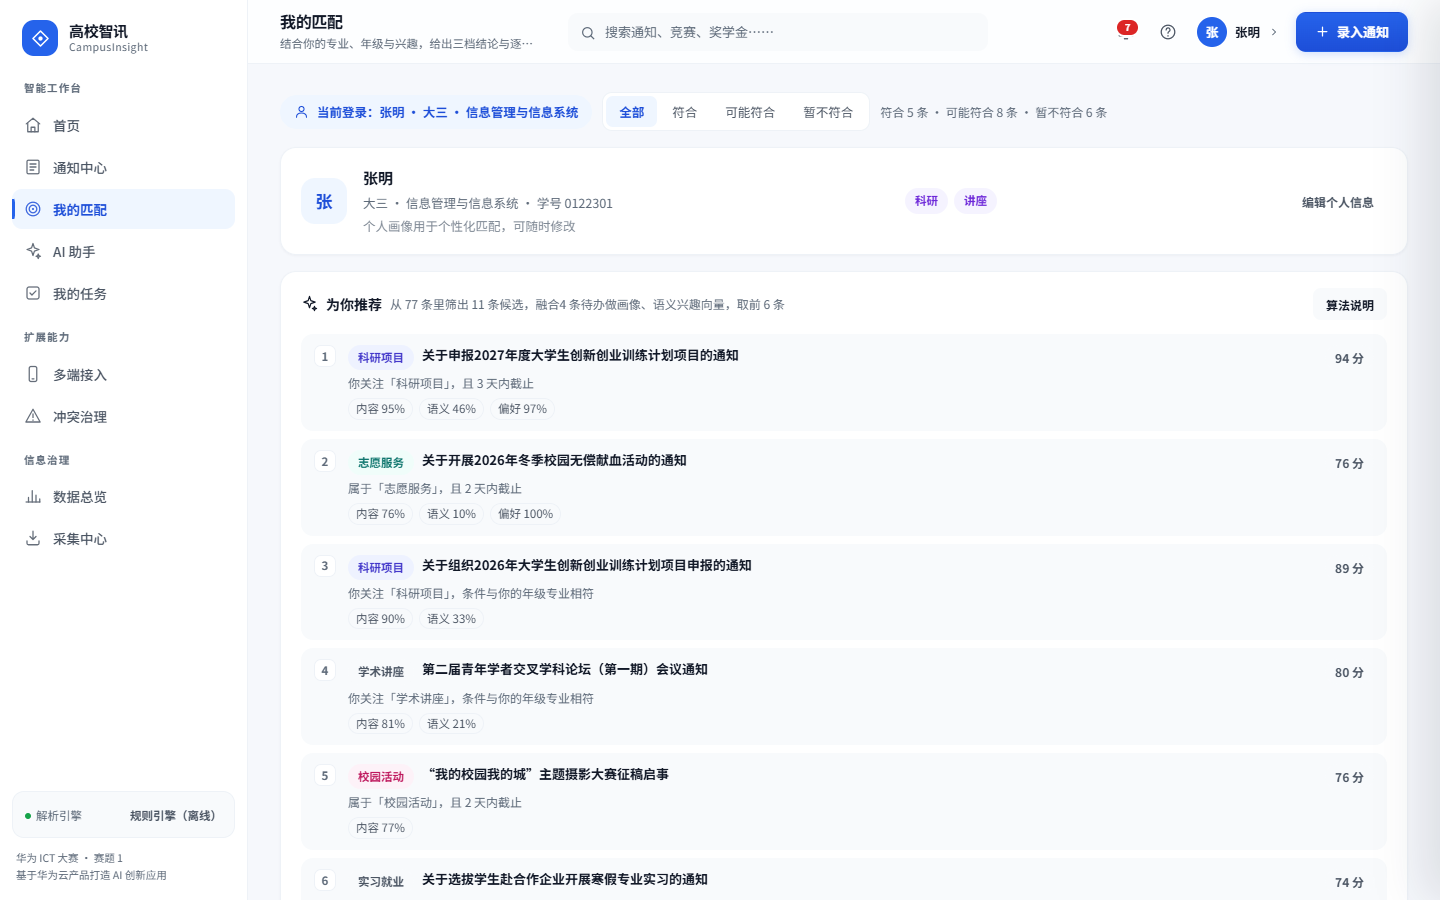
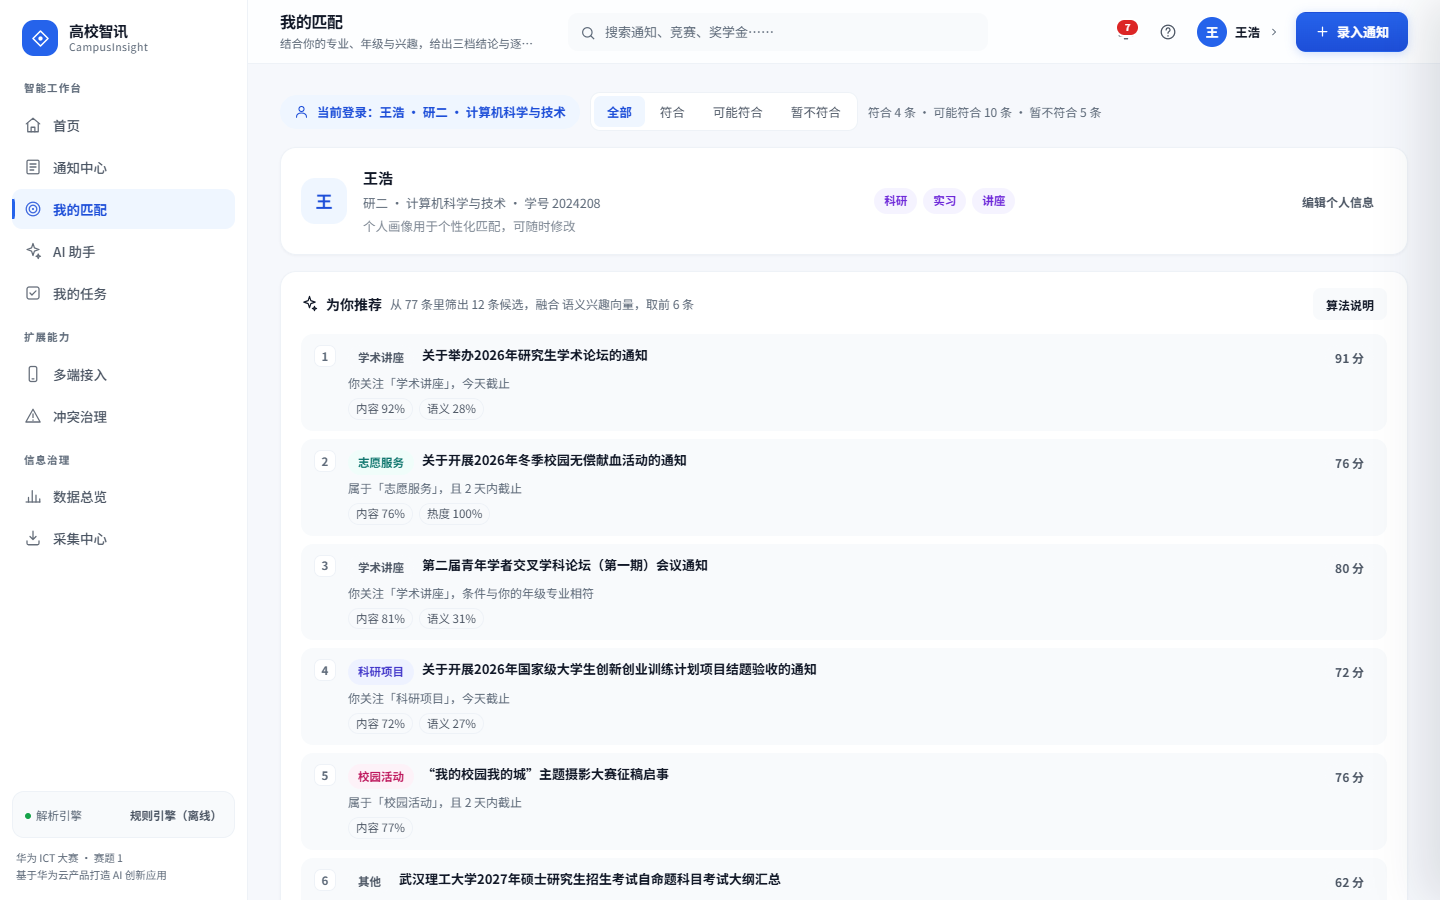
refactor(reco): 统一为五路信号口径，推荐位文案留白与截图更新

diff --git a/app/static/js/app.js b/app/static/js/app.js
@@ -1362,7 +1362,7 @@ async function loadRecommendations(u) {
     if (sig.peer_users) used.push(`${sig.peer_users} 位同学的行为`);
     $("#recoMeta").textContent =
       `从 ${meta.candidate_total || 0} 条里筛出 ${meta.recalled || 0} 条候选`
-      + (used.length ? `，融合${used.join("、")}` : "，按内容与时效排序")
+      + (used.length ? `，融合 ${used.join("、")}` : "，按内容与时效排序")
       + `，取前 ${items.length} 条`;
     $("#recoList").innerHTML = items.map((r, i) => {
       const score = Math.max(5, Math.min(98, r.score));

diff --git a/app/services/recommender.py b/app/services/recommender.py
@@ -1,4 +1,4 @@
-"""精准推荐：内容匹配 + 语义画像 + 协同行为 + 探索重排，四路信号融合的五段式推荐。
+"""精准推荐：内容匹配 + 语义画像 + 协同行为 + 探索重排，五路信号融合的五段式推荐。
 
 为什么要在 matcher 之外再包一层：
     match_one 回答的是"这条通知与我合不合"，逐条独立判断，不关心整体列表长什么样。
@@ -7,7 +7,7 @@
 
       1) 召回（recall）：先按可办理性、截止状态、重复副本做粗筛，把明显无关的挡在门外；
       2) 多路信号（signal）：内容七因子 fit / TF-IDF 语义相似度 / 同学协同行为 / 全站热度；
-      3) 融合排序（fusion）：把四路信号按内容为主的权重合成一个可解释的最终得分；
+      3) 融合排序（fusion）：把五路信号按内容为主的权重合成一个可解释的最终得分；
       4) 探索与重排（explore + MMR）：给冷门主题一点曝光（UCB 思路），再按同分类上限收敛。
 
 为什么不是纯协同过滤：
@@ -45,7 +45,7 @@ MAX_PER_CATEGORY = 2
 # 不同分类之间的相关性折扣：MMR 的 λ，越大越看重相关性，越小越看重多样性。
 DIVERSITY_LAMBDA = 0.72
 
-# 四路信号的融合权重（和为 1）。内容七因子占一半以上，保证"合不合"仍是主因；
+# 五路信号的融合权重（和为 1）。内容七因子占一半以上，保证"合不合"仍是主因；
 # 语义补兴趣词表覆盖不到的近义表达；行为与协同体现"你实际做了什么"；热度做冷启动兜底。
 FUSION_WEIGHTS = {
     "content": 0.54,
@@ -420,7 +420,7 @@ def explain(weights: dict | None = None) -> list[dict]:
 
 
 def fusion_explain() -> list[dict]:
-    """四路信号融合说明，与 explain() 的七因子并列展示，解释"最终排序怎么来的"。"""
+    """五路信号融合说明，与 explain() 的七因子并列展示，解释"最终排序怎么来的"。"""
     desc = {
         "content": "七因子加权后的内容匹配度，权重最高，决定「合不合」",
         "semantic": "与你已加入待办的同类通知、兴趣词的 TF-IDF 余弦相似度",

diff --git a/app/routers/users.py b/app/routers/users.py
@@ -203,7 +203,7 @@ def get_recommendations(
 
 @router.get("/recommendation-model")
 def recommendation_model():
-    """推荐模型说明：七因子 + 四路融合 + 五段流程 + 冷启动策略，界面可据此展示「算法怎么看」。"""
+    """推荐模型说明：七因子 + 五路融合 + 五段流程 + 冷启动策略，界面可据此展示「算法怎么看」。"""
     from app.services.matcher import MATCH_THRESHOLD
     from app.services.recommender import DIVERSITY_LAMBDA, MAX_PER_CATEGORY
 

diff --git a/README.md b/README.md
@@ -21,7 +21,7 @@
 | 结构化字段契约 | 年级、专业、报名起止、活动时间、地点、联系人电话 | 确定性抽取，不交给生成式模型；每字段附原文证据 |
 | 规则校验与审核 | 时间倒挂、证据失配、字段泄漏等 9 项校验 + 通过/修正/驳回 | AI 负责理解，程序负责约束，原文负责证明 |
 | 个性化匹配 | 三级结论 + 七因子分项 + 逐条判断理由 | 适用对象/专业/兴趣/条件/时效/新鲜度/完整度七因子加权，专业年级学历走结构化硬条件，不靠字符串包含猜 |
-| 通知推荐 | 五段式融合推荐：内容 + 语义向量 + 行为画像 + 同侪协同 + 全站热度 | 纯标准库 TF-IDF 与 90 天半衰期行为衰减，无 embedding 服务也能跑；每条带「为什么推给你」与四路信号分解 |
+| 通知推荐 | 五段式融合推荐：内容 + 语义向量 + 行为画像 + 同侪协同 + 全站热度 | 纯标准库 TF-IDF 与 90 天半衰期行为衰减，无 embedding 服务也能跑；每条带「为什么推给你」与五路信号分解 |
 | 智能问答 | 意图识别 + 结构化字段 + 溯源回答 | 只答已收录内容，直接给出截止日期 / 材料清单 / 申请条件等确切值并附原文依据 |
 | 时间管理 | 待办、截止提醒、30 天议程 | 与解析结果联动 |
 | 数据看板 | 分类分布、解析质量、截止预警、采集渠道、录入趋势 | 支持人工复核闭环 |

diff --git a/docs/architecture.md b/docs/architecture.md
@@ -18,7 +18,7 @@
 | `services/extractor.py` | 日期打分选截止、对象归一化、条件原子化、材料条目化 |
 | `services/analyzer.py` | 解析编排、`_attach_literal_fields()` 挂载确定性字段、`_finalize()` 统一校验出口 |
 | `services/matcher.py` | 七因子加权匹配：可解释的三级结论、专业 / 年级硬条件冲突判定、分项贡献分解 |
-| `services/recommender.py` | 推荐编排：召回 → 画像 → 五路融合 → 探索 → MMR 重排，输出「为什么推给你」与四路信号分解 |
+| `services/recommender.py` | 推荐编排：召回 → 画像 → 五路融合 → 探索 → MMR 重排，输出「为什么推给你」与五路信号分解 |
 | `services/vectorizer.py` | **语义向量**：纯标准库 TF-IDF + 稀疏余弦，无 numpy、无外部 embedding 服务，可离线降级 |
 | `services/interest.py` | **行为信号**：90 天半衰期衰减的历史偏好、同侪协同计数、全站热度，全部现算不落表 |
 | `services/genre.py` | 文体判别：事务通知 / 公示公告 / 新闻资讯 |

diff --git a/docs/real_audit.md b/docs/real_audit.md
@@ -1,6 +1,6 @@
 # 真实站点采集集 · 解析质量审计
 
-> 由 `scripts/real_audit.py` 自动生成于 2026-11-28 23:28；数据集快照 `2026-11-06T01:08:36`。指标均由当前代码现场复算，可一键重跑。
+> 由 `scripts/real_audit.py` 自动生成于 2026-11-28 23:34；数据集快照 `2026-11-06T01:08:36`。指标均由当前代码现场复算，可一键重跑。
 
 ## 1. 为什么换指标口径
 

diff --git a/docs/evaluation_result.md b/docs/evaluation_result.md
@@ -1,6 +1,6 @@
 # 解析效果评测结果（自动生成）
 
-> 生成时间：2026-11-28 23:28
+> 生成时间：2026-11-28 23:34
 > 数据集：开发集（规则在其上迭代过）
 
 | 指标 | 数值 |

diff --git a/docs/holdout_result.md b/docs/holdout_result.md
@@ -1,6 +1,6 @@
 # 解析效果评测结果（自动生成）
 
-> 生成时间：2026-11-28 23:28
+> 生成时间：2026-11-28 23:34
 > 数据集：留出集（未参与调参）
 
 | 指标 | 数值 |
